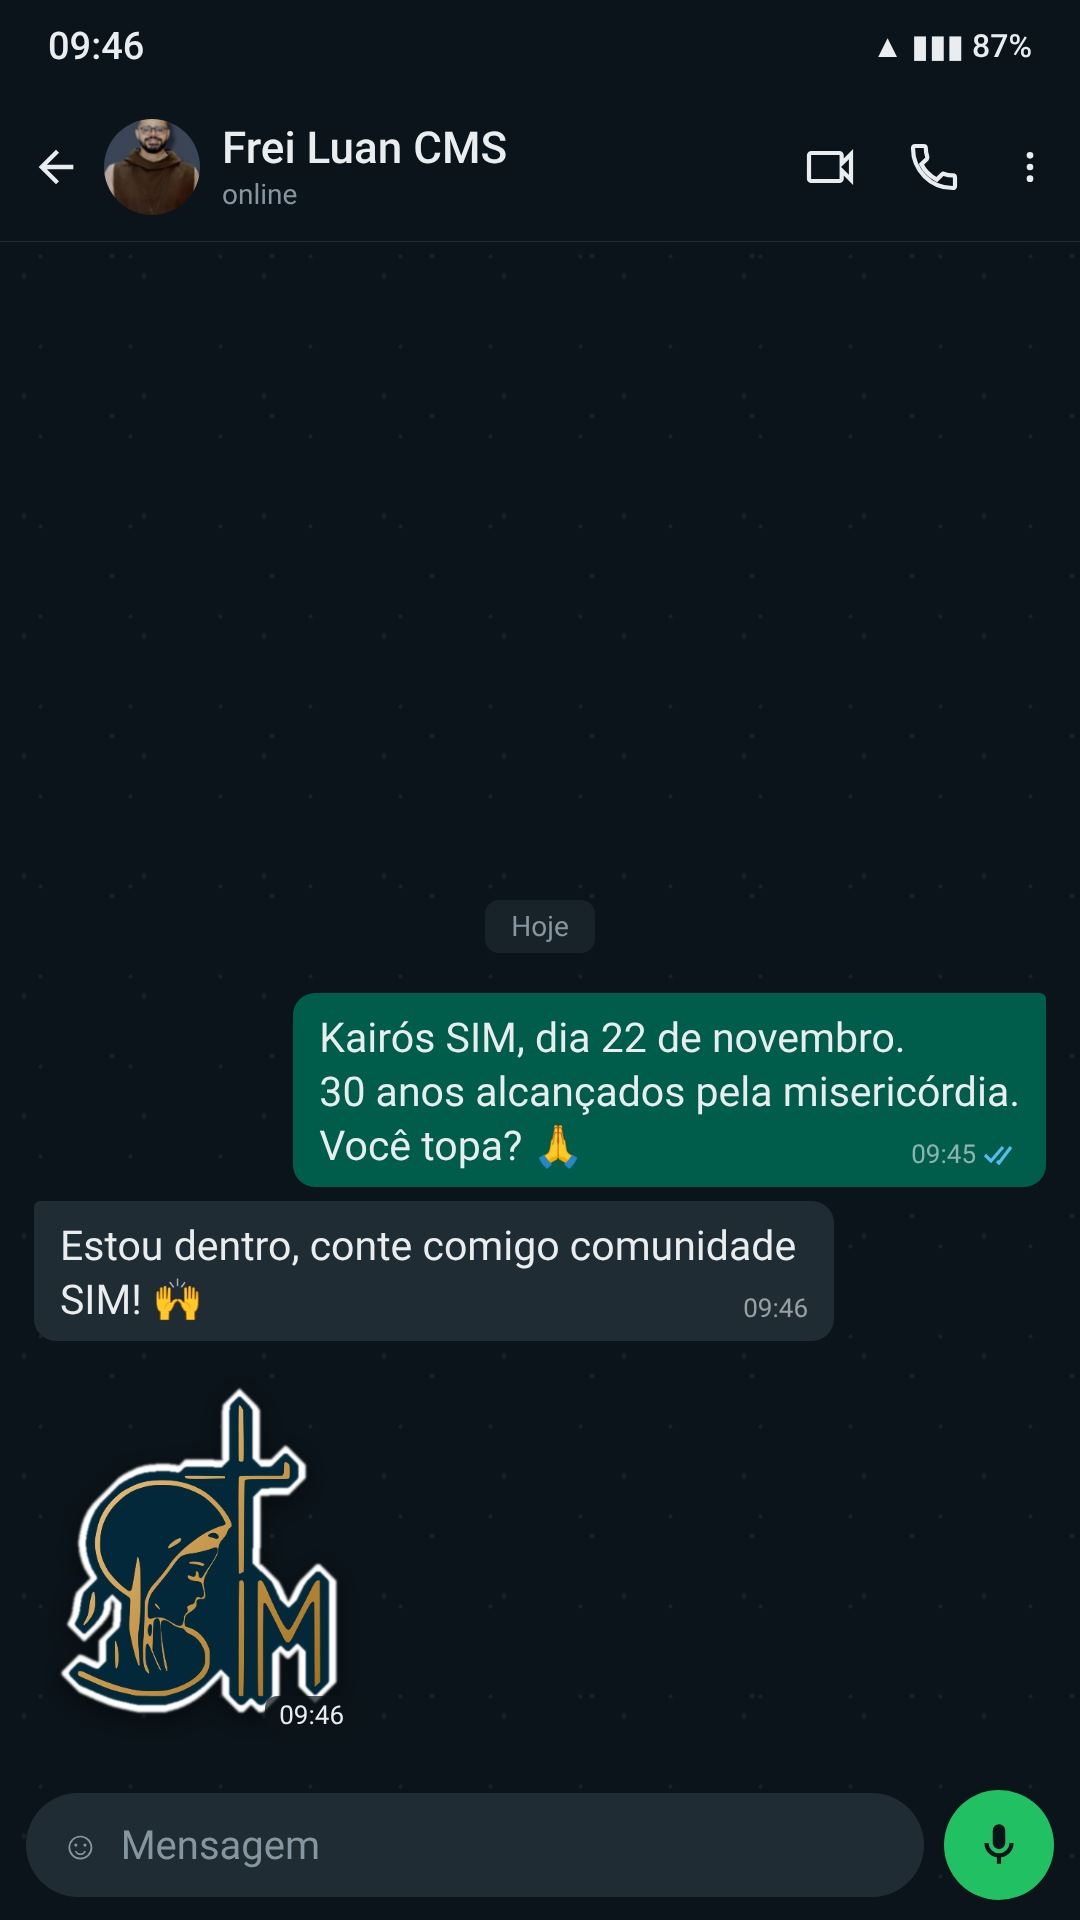
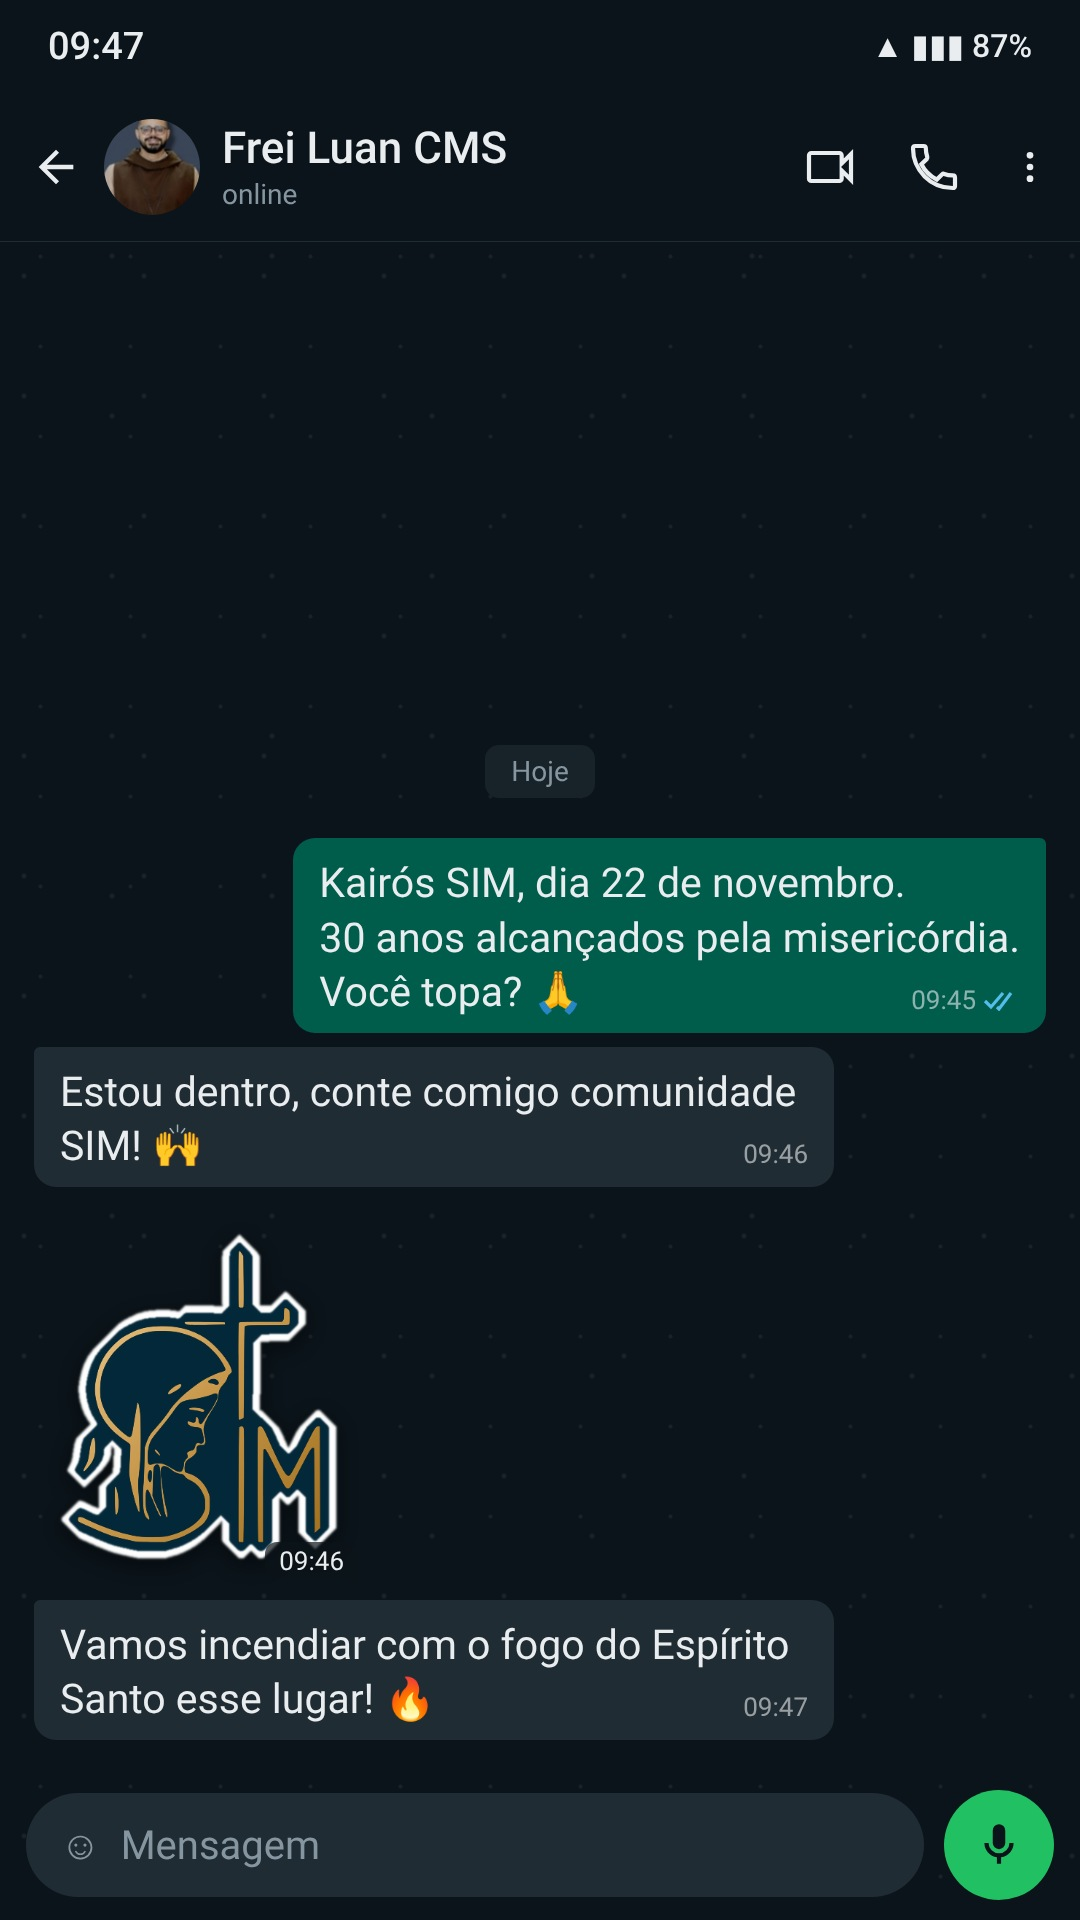
Kairos: conversa com Frei Luan - nova mensagem
Claude-Session: https://claude.ai/code/session_01FbCrHFBteKdzqYMDJGtW6G

Changed region(s): [[0.0306, 0.4375, 0.9778, 0.9062], [0.4889, 0.375, 0.5194, 0.4062], [0.1222, 0.0, 0.1528, 0.0312]]

diff --git a/artes-sim/1-stories-historia-30-anos/conversa-frei-luan/z.html b/artes-sim/1-stories-historia-30-anos/conversa-frei-luan/z.html
@@ -27,7 +27,7 @@ section{width:1080px;height:1920px;position:relative;overflow:hidden;background:
 b.g{color:#ffd279;font-weight:500}
 </style></head><body><section>
 <div class="wall"></div>
-<div class="status"><span>09:46</span><span style="font-size:32px">▲ ▮▮▮ 87%</span></div>
+<div class="status"><span>09:47</span><span style="font-size:32px">▲ ▮▮▮ 87%</span></div>
 <div class="top">
 <svg class="ic" viewBox="0 0 24 24" style="margin-left:0;width:52px"><path d="M20 11H7.8l5.6-5.6L12 4l-8 8 8 8 1.4-1.4L7.8 13H20z" fill="#e9edef"/></svg>
 <img src="avatar.png"><div class="name">Frei Luan CMS<small>online</small></div>
@@ -40,6 +40,7 @@ b.g{color:#ffd279;font-weight:500}
 <div class="b out">Kairós SIM, dia 22 de novembro.<br>30 anos alcançados pela misericórdia.<br>Você topa? 🙏<span class="m">09:45 <svg class="tick" viewBox="0 0 18 11"><path d="M1 6l3 3 6-7M7 9l1 1 6-8" fill="none" stroke="#53bdeb" stroke-width="1.6"/></svg></span></div>
 <div class="b in">Estou dentro, conte comigo comunidade SIM! 🙌<span class="m">09:46</span></div>
 <div class="st"><img src="sticker.png"><span class="m">09:46</span></div>
+<div class="b in">Vamos incendiar com o fogo do Espírito Santo esse lugar! 🔥<span class="m">09:47</span></div>
 </div>
 <div class="bar"><div class="inp">☺&nbsp; Mensagem</div><div class="mic"><svg width="50" height="50" viewBox="0 0 24 24"><path d="M12 14a3 3 0 0 0 3-3V5a3 3 0 0 0-6 0v6a3 3 0 0 0 3 3zm5-3a5 5 0 0 1-10 0H5a7 7 0 0 0 6 6.9V21h2v-3.1A7 7 0 0 0 19 11z" fill="#0b141a"/></svg></div></div>
 </section></body></html>
